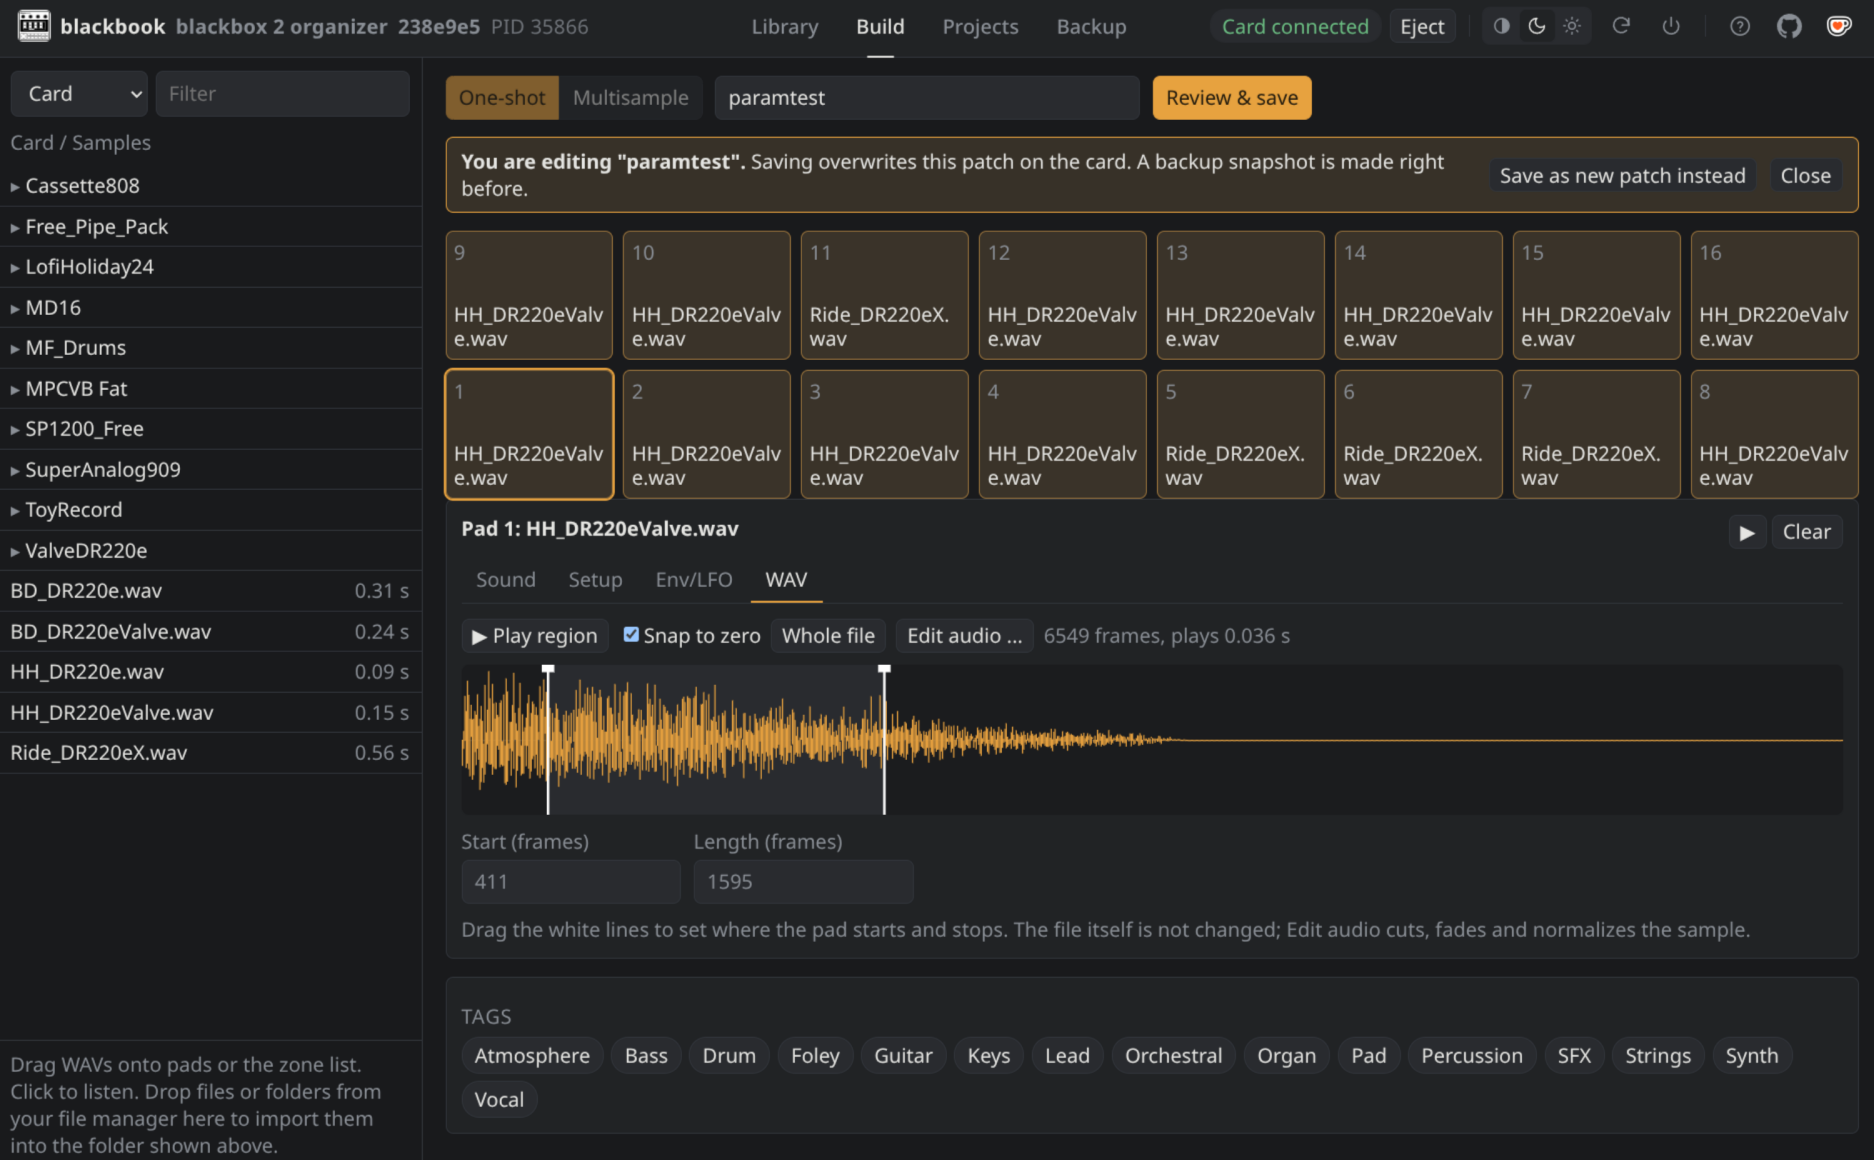
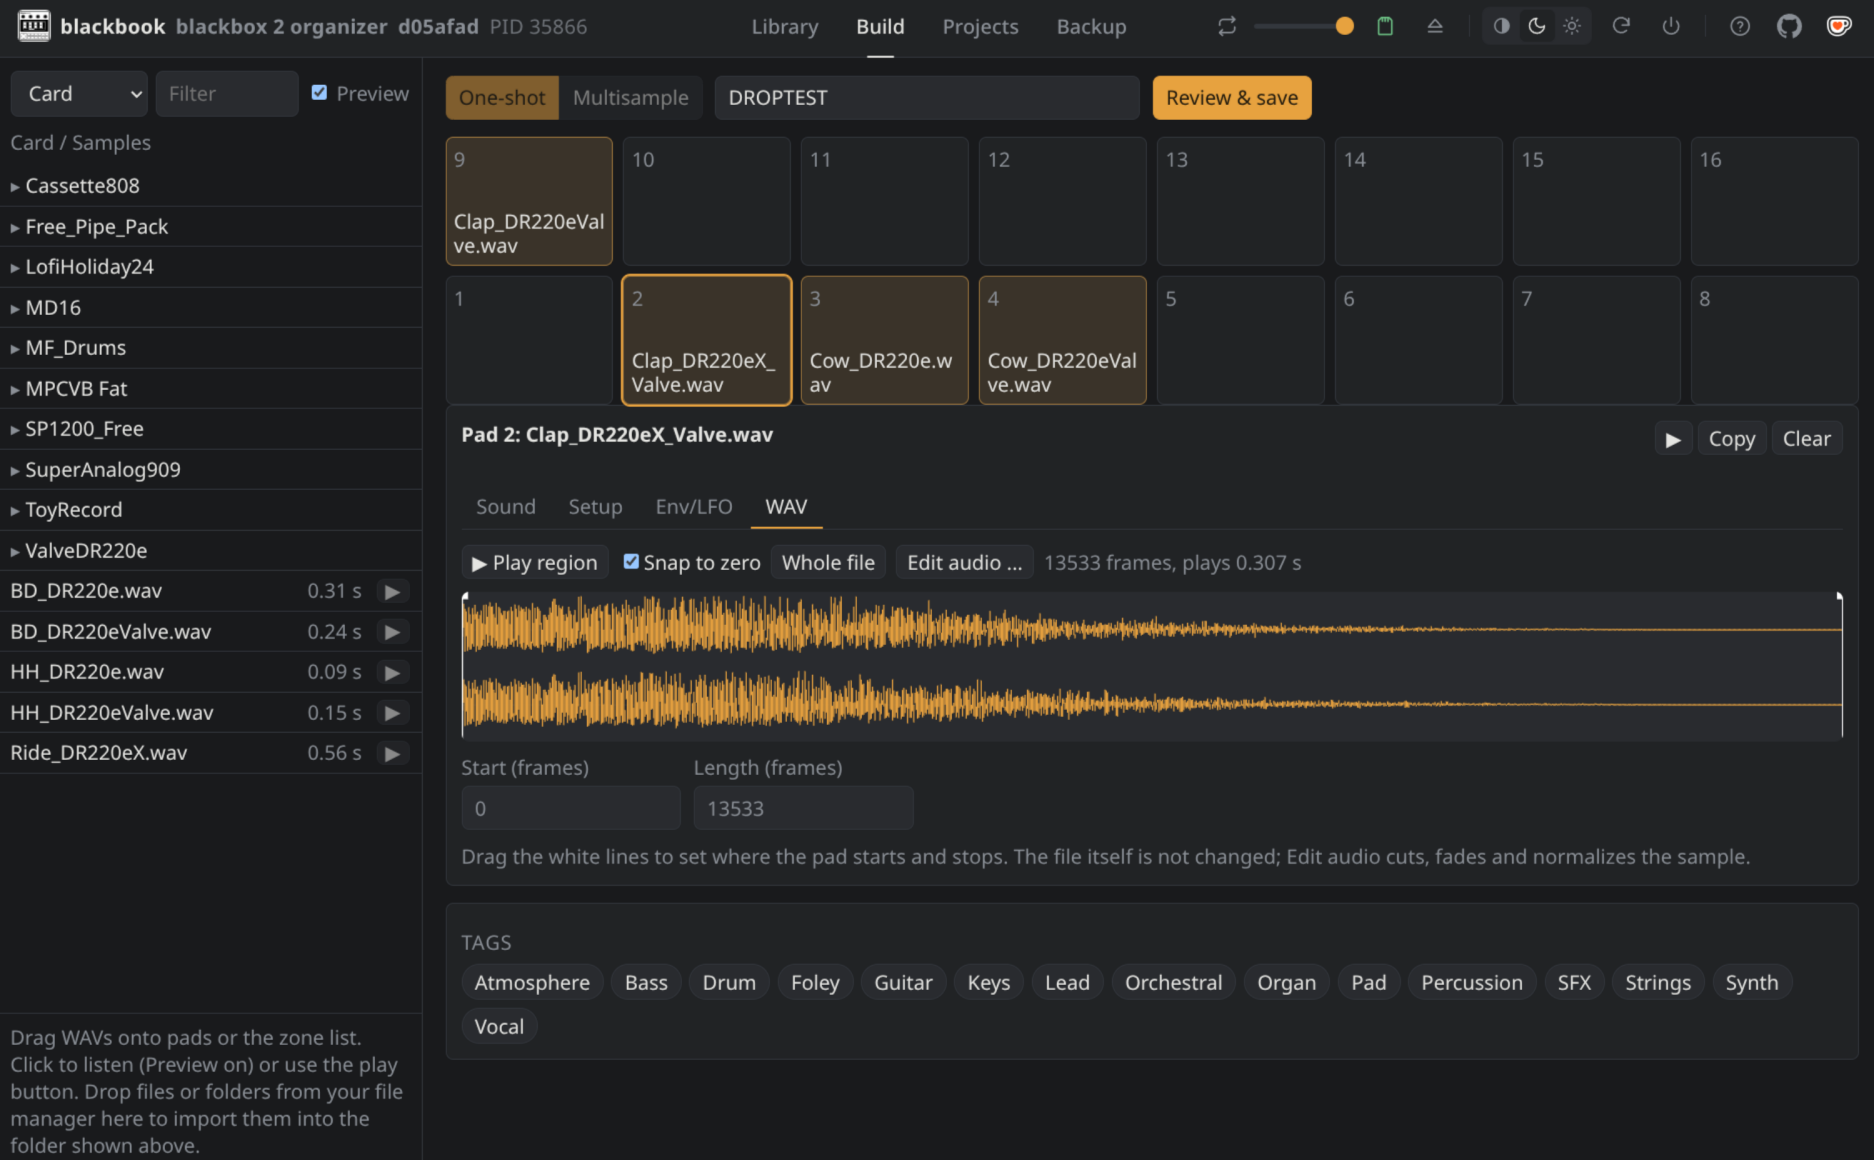
README: screenshots of library, builder, pad editor and audio editor

diff --git a/README.md b/README.md
@@ -34,6 +34,15 @@ blackbook is free and stays free. If it helps you, you can buy me a coffee on [K
 
 What comes next is in the roadmap at the top. Tell me what you need most.
 
+## Screenshots
+
+| | |
+|---|---|
+| ![Library with patch details, tags and samples](docs/images/library.png) | ![Audio editor with trim, fades, gain, normalize and snap to zero](docs/images/audio-editor.png) |
+| **Library:** factory and user patches, tags, samples per pad | **Audio editor:** cut, fade, normalize, every edge on a zero crossing |
+| ![Pad editor with envelope and LFO graphics](docs/images/pad-editor-env-lfo.png) | ![One-shot builder with pad grid and waveform](docs/images/builder-oneshot.png) |
+| **Pad editor:** envelope and LFO as on the device | **Builder:** 16 pads, start and length on the waveform |
+
 ## Installation and start
 
 > [!IMPORTANT]
